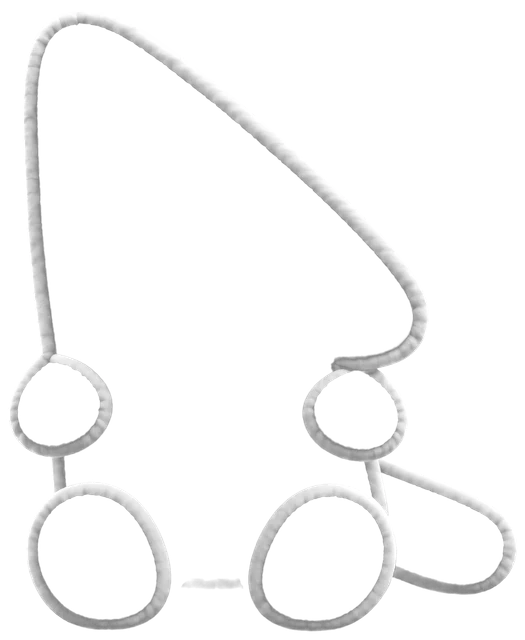
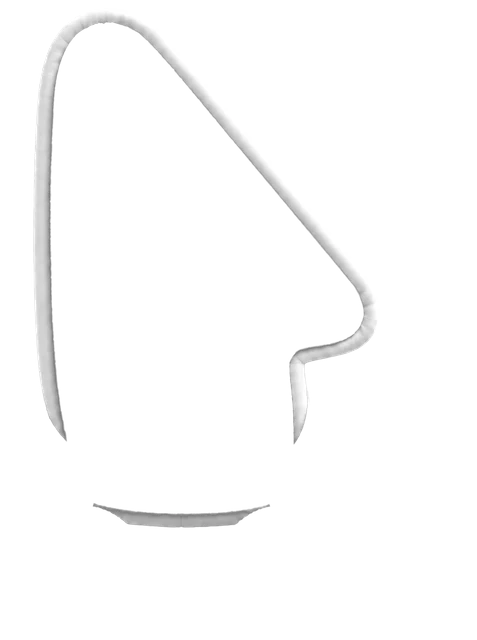
feat(kers): re-rendered in the new finish, with his day
Eleven renders from the updated prompts replace the first six: standing,
sitting, both walking steps, arms up, waving, asleep, and his day (at the
laptop, a mug, reading, meditating). Matte short pile, a dart seam at the
tip, piping only around the front panel, so his mood dye frames his face.

Each pose's eyes, cursor tip, middle and hand are placed by hand; walking
now uses both step renders. Brushing is the one pose still to render.

Changed region(s): [[0.0, 0.0, 0.9979, 1.0]]

diff --git a/src/components/kers/poses.ts b/src/components/kers/poses.ts
@@ -41,18 +41,17 @@ export interface PoseSpec {
 const frame = { w: 600, h: 640, ready: false, eyes: [[232, 292], [328, 292]] as [Point, Point], eyeR: 44, tip: [176, 78] as Point, centre: [290, 330] as Point, hand: [462, 420] as Point }
 
 export const KERS_POSES: Record<KersPose, PoseSpec> = {
-  standing: { w: 474, h: 640, ready: true, eyes: [[158, 232], [258, 232]], eyeR: 42, tip: [100, 40], centre: [230, 330], hand: [400, 405], arms: [[-58, 70], [64, 74]] },
-  sitting: { w: 525, h: 640, ready: true, eyes: [[148, 252], [250, 252]], eyeR: 44, tip: [72, 40], centre: [220, 330], hand: [350, 410], arms: [[40, -10], [-10, 40]] },
-  'walk-a': { w: 466, h: 640, ready: true, eyes: [[178, 232], [278, 232]], eyeR: 42, tip: [120, 30], centre: [250, 330], hand: [410, 400], arms: [[-30, 84], [74, 54]] },
-  // No second step rendered yet: walking alternates walk-a with standing.
-  'walk-b': { ...frame, arms: [[-70, 54], [36, 84]], step: 'right' },
-  'arms-up': { w: 497, h: 640, ready: true, eyes: [[175, 232], [275, 232]], eyeR: 42, tip: [115, 35], centre: [240, 330], hand: [440, 240], arms: [[-34, -96], [40, -96]] },
-  waving: { w: 481, h: 640, ready: true, eyes: [[178, 232], [278, 232]], eyeR: 42, tip: [120, 30], centre: [240, 330], hand: [45, 205], arms: [[-58, 70], [52, -100]] },
-  asleep: { w: 1046, h: 640, ready: true, eyes: [[330, 248], [450, 262]], eyeR: 44, tip: [60, 110], centre: [480, 330], hand: [870, 400], arms: [[-40, 60], [40, 60]] },
-  // Still to render (docs/kers/prompts.md, prompts 9 to 13).
-  laptop: { ...frame, arms: [[60, 40], [-10, 60]] },
-  mug: { ...frame, arms: [[54, -20], [-20, 40]] },
-  reading: { ...frame, arms: [[50, 30], [-10, 40]] },
-  meditating: { ...frame, arms: [[-30, 80], [30, 80]] },
+  standing: { w: 420, h: 640, ready: true, eyes: [[158, 245], [250, 245]], eyeR: 40, tip: [110, 25], centre: [200, 330], hand: [380, 430], arms: [[-58, 70], [64, 74]] },
+  sitting: { w: 477, h: 640, ready: true, eyes: [[140, 245], [232, 245]], eyeR: 40, tip: [90, 25], centre: [200, 330], hand: [330, 460], arms: [[40, -10], [-10, 40]] },
+  'walk-a': { w: 470, h: 640, ready: true, eyes: [[215, 245], [305, 245]], eyeR: 40, tip: [165, 25], centre: [250, 330], hand: [440, 390], arms: [[-30, 84], [74, 54]] },
+  'walk-b': { w: 462, h: 640, ready: true, eyes: [[195, 245], [285, 245]], eyeR: 40, tip: [150, 22], centre: [240, 330], hand: [420, 400], arms: [[-70, 54], [36, 84]] },
+  'arms-up': { w: 428, h: 640, ready: true, eyes: [[175, 235], [262, 235]], eyeR: 38, tip: [140, 20], centre: [220, 320], hand: [400, 110], arms: [[-34, -96], [40, -96]] },
+  waving: { w: 442, h: 640, ready: true, eyes: [[195, 245], [285, 245]], eyeR: 40, tip: [150, 25], centre: [240, 330], hand: [40, 180], arms: [[-58, 70], [52, -100]] },
+  asleep: { w: 914, h: 640, ready: true, eyes: [[300, 230], [410, 248]], eyeR: 40, tip: [40, 70], centre: [400, 320], hand: [700, 420], arms: [[-40, 60], [40, 60]] },
+  laptop: { w: 603, h: 640, ready: true, eyes: [[195, 225], [285, 225]], eyeR: 40, tip: [150, 25], centre: [240, 300], hand: [400, 440], arms: [[60, 40], [-10, 60]] },
+  mug: { w: 478, h: 640, ready: true, eyes: [[125, 225], [212, 225]], eyeR: 38, tip: [55, 20], centre: [180, 280], hand: [230, 430], arms: [[54, -20], [-20, 40]] },
+  reading: { w: 560, h: 640, ready: true, eyes: [[155, 215], [245, 215]], eyeR: 38, tip: [95, 20], centre: [220, 270], hand: [370, 440], arms: [[50, 30], [-10, 40]] },
+  meditating: { w: 521, h: 640, ready: true, eyes: [[165, 215], [255, 215]], eyeR: 38, tip: [115, 20], centre: [220, 300], hand: [330, 410], arms: [[-30, 80], [30, 80]] },
+  // Still to render (docs/kers/prompts.md, prompt 13).
   brushing: { ...frame, arms: [[-58, 70], [-40, -40]] },
 }
